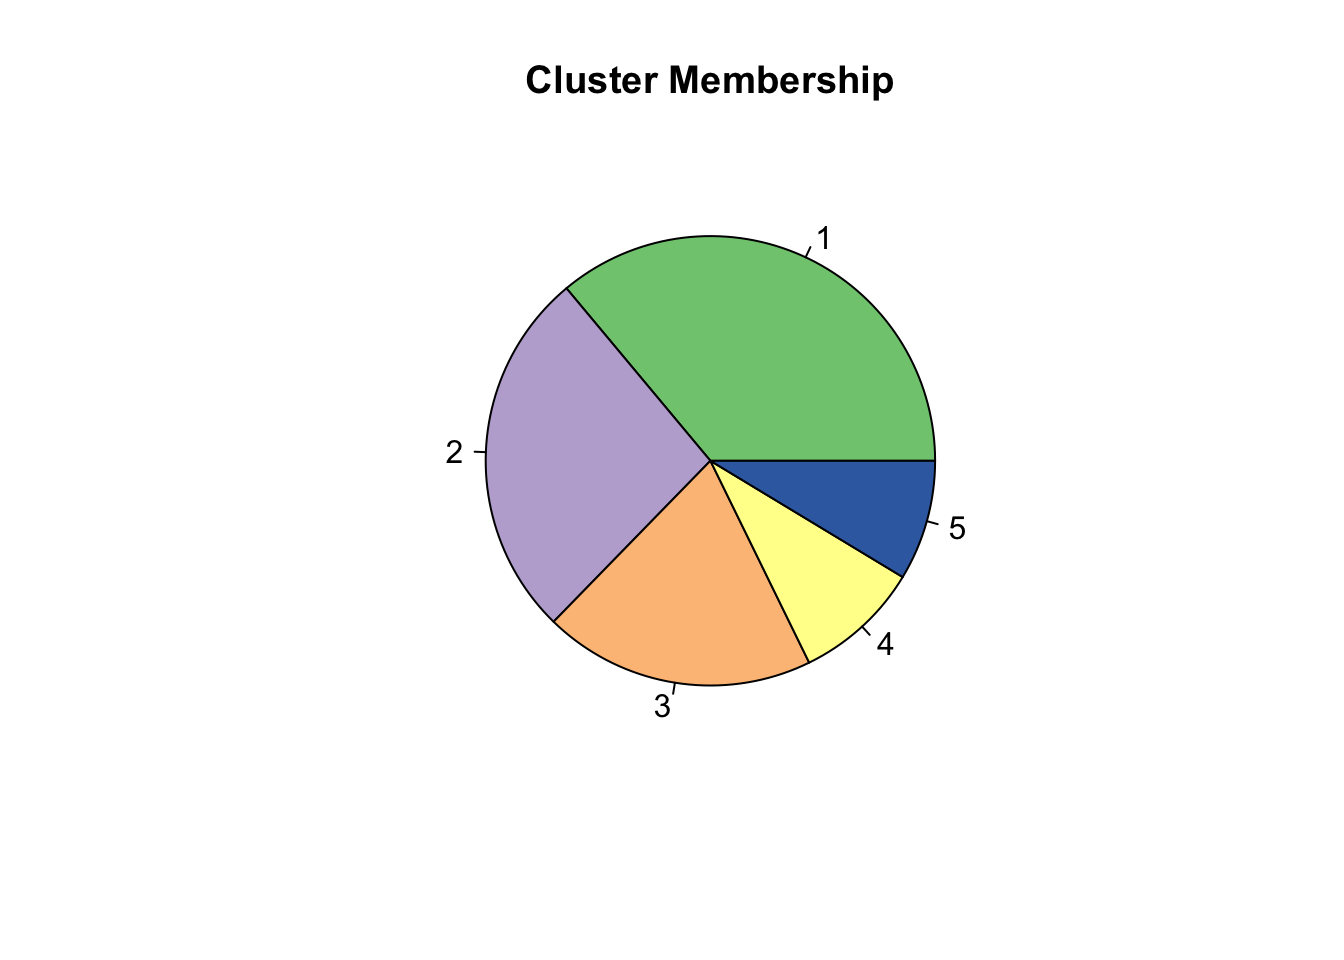
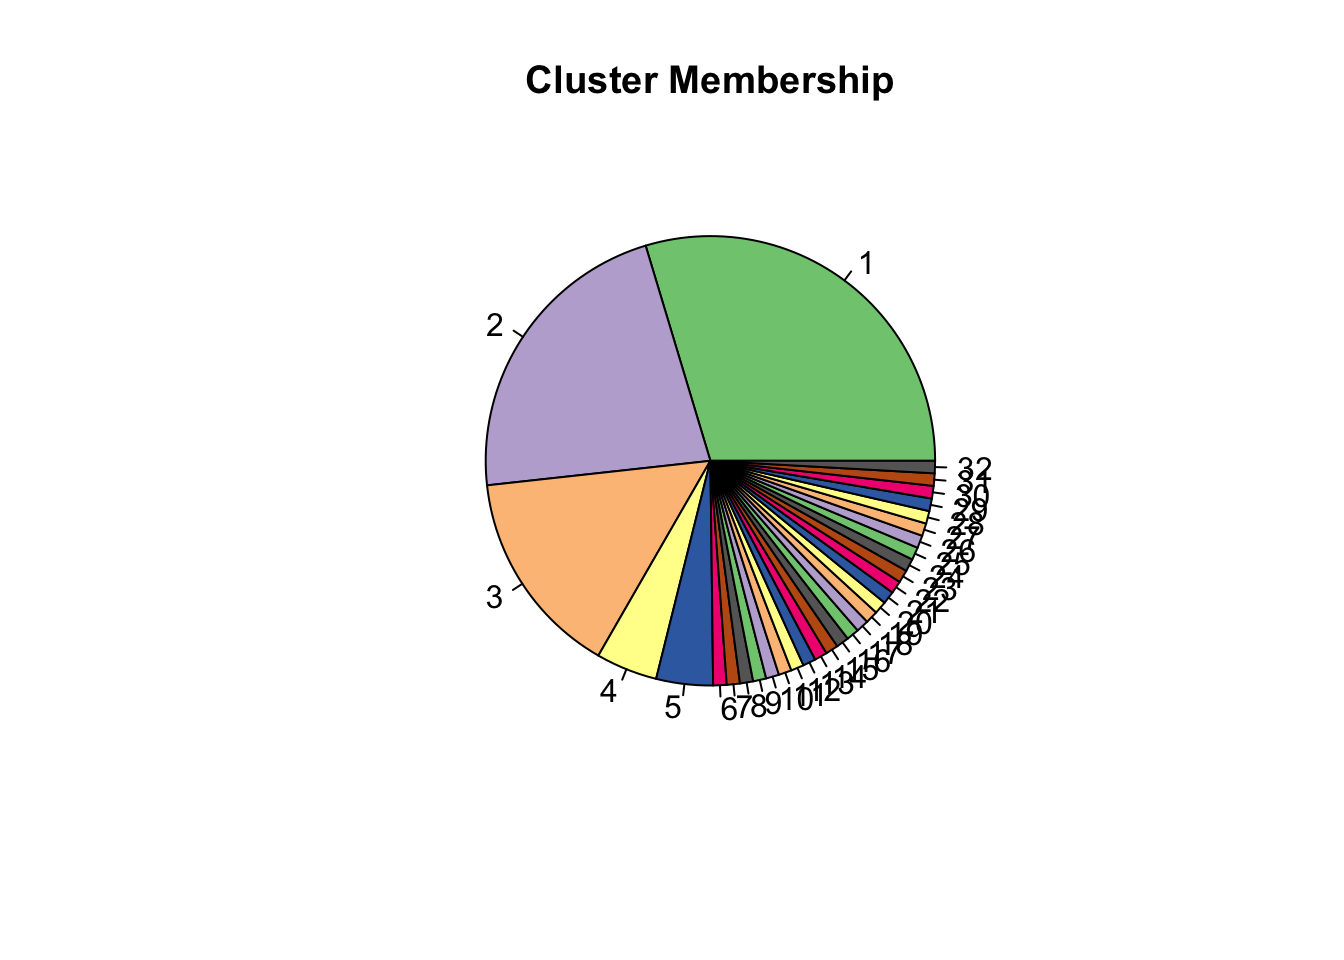
Updated K

Changed region(s): [[0.3438, 0.25, 0.75, 0.75]]

diff --git a/docs/Pearson.html b/docs/Pearson.html
@@ -327,8 +327,7 @@ div.section {
 <strong>workflowr checks:</strong> <small>(Click a bullet for more information)</small>
 <ul>
 <li>
-<p><details> <summary> <strong style="color:blue;">✔</strong> <strong>R Markdown file:</strong> up-to-date </summary></p>
-<p>Great! Since the R Markdown file has been committed to the Git repository, you know the exact version of the code that produced these results.</p>
+<p><details> <summary> <strong style="color:red;">✖</strong> <strong>R Markdown file:</strong> uncommitted changes </summary> The R Markdown file has unstaged changes. To know which version of the R Markdown file created these results, you’ll want to first commit it to the Git repo. If you’re still working on the analysis, you can ignore this warning. When you’re finished, you can run <code>wflow_publish</code> to commit the R Markdown file and build the HTML.</p>
 </details>
 </li>
 <li>
@@ -347,7 +346,7 @@ div.section {
 </details>
 </li>
 <li>
-<p><details> <summary> <strong style="color:blue;">✔</strong> <strong>Repository version:</strong> <a href="https://github.com/surbut/myproject/tree/edc5cd548858a703da33257a7a2745024b04c063" target="_blank">edc5cd5</a> </summary></p>
+<p><details> <summary> <strong style="color:blue;">✔</strong> <strong>Repository version:</strong> <a href="https://github.com/surbut/myproject/tree/fa7cfa80fc0e0a79501a207b947cffdcb310c1e0" target="_blank">fa7cfa8</a> </summary></p>
 Great! You are using Git for version control. Tracking code development and connecting the code version to the results is critical for reproducibility. The version displayed above was the version of the Git repository at the time these results were generated. <br><br> Note that you need to be careful to ensure that all relevant files for the analysis have been committed to Git prior to generating the results (you can use <code>wflow_publish</code> or <code>wflow_git_commit</code>). workflowr only checks the R Markdown file, but you know if there are other scripts or data files that it depends on. Below is the status of the Git repository when the results were generated:
 <pre><code>
 Ignored files:
@@ -357,6 +356,9 @@ Ignored files:
     Ignored:    analysis/.DS_Store
     Ignored:    analysis/.Rhistory
     Ignored:    analysis/Pearson_cache/
+
+Unstaged changes:
+    Modified:   analysis/Pearson.Rmd
 
 </code></pre>
 Note that any generated files, e.g. HTML, png, CSS, etc., are not included in this status report because it is ok for generated content to have uncommitted changes. </details>
@@ -385,6 +387,23 @@ Message
 </tr>
 </thead>
 <tbody>
+<tr>
+<td style="text-align:left;">
+html
+</td>
+<td style="text-align:left;">
+<a href="https://cdn.rawgit.com/surbut/myproject/fa7cfa80fc0e0a79501a207b947cffdcb310c1e0/docs/Pearson.html" target="_blank">fa7cfa8</a>
+</td>
+<td style="text-align:left;">
+surbut
+</td>
+<td style="text-align:left;">
+2018-10-23
+</td>
+<td style="text-align:left;">
+Build site.
+</td>
+</tr>
 <tr>
 <td style="text-align:left;">
 html
@@ -1055,18 +1074,18 @@ bar|19 4445    13     0           0          0       0
 bar|20 4536     1     0           0          0       0</code></pre>
 <p>There are 5 unqiue barcodes. Noww we install some packages necessary for the GOM model according to <strong>CountClust</strong> vignette.</p>
 <pre><code>Loading required package: ggplot2</code></pre>
-<p>To fit for multiple K, we apply the following model and consider how the different clones fall into patterns characterized by tissue-sepcific expression. We cna see that each cluone can have membership in up to 10 clusters, where each cluster is characterized by predilection to a particular tissue or group of tissues. WE can then consider which clusters are most popular, and examine the tissue patterns they demonstrate.</p>
+<p>To fit for multiple K, we apply the following model and consider how the different clones fall into patterns characterized by tissue-sepcific expression. We cna see that each cluone can have membership in up to 32 <span class="math inline">\(\(2^5)\)</span> clusters, where each cluster is characterized by predilection to a particular tissue or group of tissues. WE can then consider which clusters are most popular, and examine the tissue patterns they demonstrate.</p>
 <pre class="r"><code>#fits &lt;- lapply(2:10, function(k) FitGoM(mat,K=k, tol=1))## try over different Ks
-fit=FitGoM(mat,K=5, tol=1)$fit</code></pre>
+fit=FitGoM(mat,K=32, tol=1)$fit</code></pre>
 <pre><code>options not specified: switching to default BIC, other choice is BF for Bayes factor</code></pre>
 <pre><code>Fitting a Grade of Membership model
             (Taddy M., AISTATS 2012, JMLR 22,
             http://proceedings.mlr.press/v22/taddy12/taddy12.pdf)</code></pre>
 <pre><code>
 Estimating on a 23651 document collection.
-Fit and Bayes Factor Estimation for K = 5
+Fit and Bayes Factor Estimation for K = 32
 log posterior increase: done.
-log BF( 5 ) = 259125870.41</code></pre>
+log BF( 32 ) = 258562154.35</code></pre>
 <pre class="r"><code>omega &lt;- fit$omega
 
 
@@ -1084,7 +1103,7 @@ log BF( 5 ) = 259125870.41</code></pre>
 
 StructureGGplot(omega = omega,
                 #annotation = annotation,
-                palette = c(brewer.pal(8, &quot;Accent&quot;)),
+                palette = c(brewer.pal(8, &quot;Accent&quot;),brewer.pal(8,&quot;Dark2&quot;),brewer.pal(8,&quot;Paired&quot;),brewer.pal(8,&quot;Set1&quot;)),
                 yaxis_label = &quot;Clone Number&quot;,
                 order_sample = TRUE,
                 #sample_order_opts=4,
@@ -1149,13 +1168,61 @@ surbut
 <p>We can examine the <code>omega</code> matrix to try and understand the proportional membership of every clone, and overall enrichemnt of each cluster.</p>
 <pre class="r"><code>head(omega[1:10,])</code></pre>
 <pre><code>              topic
-document               1           2           3           4           5
-  bar|1 9115   0.4440247 0.008000000 0.528522179 0.010480072 0.008973015
-  bar|11 16195 0.7333333 0.066666667 0.066666667 0.066666667 0.066666667
-  bar|15 4514  0.8000000 0.050000000 0.050000000 0.050000000 0.050000000
-  bar|17 4877  0.9880867 0.001273885 0.001318551 0.001733266 0.007587599
-  bar|19 4445  0.9428571 0.014285714 0.014285714 0.014285714 0.014285714
-  bar|20 4536  0.6000000 0.100000000 0.100000000 0.100000000 0.100000000</code></pre>
+document                1            2            3            4
+  bar|1 9115   0.02036156 0.0012500000 0.5223246902 0.0013713821
+  bar|11 16195 0.67708333 0.0104166667 0.0104166667 0.0104166667
+  bar|15 4514  0.75781250 0.0078125000 0.0078125000 0.0078125000
+  bar|17 4877  0.13731922 0.0001990446 0.0002065291 0.0002215614
+  bar|19 4445  0.93080357 0.0022321429 0.0022321429 0.0022321429
+  bar|20 4536  0.51562500 0.0156250000 0.0156250000 0.0156250000
+              topic
+document                  5           6           7           8
+  bar|1 9115   0.0014782247 0.019701038 0.019458136 0.014961684
+  bar|11 16195 0.0104166667 0.010416667 0.010416667 0.010416667
+  bar|15 4514  0.0078125000 0.007812500 0.007812500 0.007812500
+  bar|17 4877  0.0001990446 0.066628237 0.044194016 0.110428357
+  bar|19 4445  0.0022321429 0.002232143 0.002232143 0.002232143
+  bar|20 4536  0.0156250000 0.015625000 0.015625000 0.015625000
+              topic
+document                 9          10          11          12          13
+  bar|1 9115   0.019742171 0.017594874 0.015450422 0.018336249 0.017287787
+  bar|11 16195 0.010416667 0.010416667 0.010416667 0.010416667 0.010416667
+  bar|15 4514  0.007812500 0.007812500 0.007812500 0.007812500 0.007812500
+  bar|17 4877  0.107233769 0.017194700 0.009072458 0.023093974 0.207441808
+  bar|19 4445  0.002232143 0.002232143 0.002232143 0.002232143 0.002232143
+  bar|20 4536  0.015625000 0.015625000 0.015625000 0.015625000 0.015625000
+              topic
+document                14          15          16          17          18
+  bar|1 9115   0.017204038 0.017707463 0.017637397 0.017595907 0.016708263
+  bar|11 16195 0.010416667 0.010416667 0.010416667 0.010416667 0.010416667
+  bar|15 4514  0.007812500 0.007812500 0.007812500 0.007812500 0.007812500
+  bar|17 4877  0.014862601 0.017777746 0.017294648 0.017047011 0.012712079
+  bar|19 4445  0.002232143 0.002232143 0.002232143 0.002232143 0.002232143
+  bar|20 4536  0.015625000 0.015625000 0.015625000 0.015625000 0.015625000
+              topic
+document                19          20          21          22          23
+  bar|1 9115   0.017482591 0.017523137 0.017396826 0.017429594 0.017402229
+  bar|11 16195 0.010416667 0.010416667 0.010416667 0.010416667 0.010416667
+  bar|15 4514  0.007812500 0.007812500 0.007812500 0.007812500 0.007812500
+  bar|17 4877  0.016362708 0.016593202 0.015877628 0.016052016 0.015885116
+  bar|19 4445  0.002232143 0.002232143 0.002232143 0.002232143 0.002232143
+  bar|20 4536  0.015625000 0.015625000 0.015625000 0.015625000 0.015625000
+              topic
+document                24          25          26          27          28
+  bar|1 9115   0.017325086 0.016717138 0.016910224 0.014762564 0.016737052
+  bar|11 16195 0.010416667 0.010416667 0.010416667 0.010416667 0.010416667
+  bar|15 4514  0.007812500 0.007812500 0.007812500 0.007812500 0.007812500
+  bar|17 4877  0.015476794 0.012730208 0.013489979 0.007611647 0.012778636
+  bar|19 4445  0.002232143 0.002232143 0.002232143 0.002232143 0.002232143
+  bar|20 4536  0.015625000 0.015625000 0.015625000 0.015625000 0.015625000
+              topic
+document                29          30          31          32
+  bar|1 9115   0.016350501 0.015257529 0.007996214 0.014538036
+  bar|11 16195 0.010416667 0.010416667 0.010416667 0.010416667
+  bar|15 4514  0.007812500 0.007812500 0.007812500 0.007812500
+  bar|17 4877  0.011413249 0.008561400 0.005321607 0.028719003
+  bar|19 4445  0.002232143 0.002232143 0.002232143 0.002232143
+  bar|20 4536  0.015625000 0.015625000 0.015625000 0.015625000</code></pre>
 <p>For example, clone with barcode <code>1_9115</code> has 44% membership in cluster 1, 52.8% membership in cluster 3, and trivial membership in other clusters. To look at overall proportions of membership in each cluster, we can consider the overall proportion of clones (weighted by their cluster memebrship) in eahc cluster. WE see that Cluster 1 is the most popular followed by cluster 2, etc.</p>
 <pre class="r"><code>pie(colSums(omega/nrow(mat)),main=&quot;Cluster Membership&quot;,col=brewer.pal(8, &quot;Accent&quot;))</code></pre>
 <p><img src="figure/Pearson.Rmd/unnamed-chunk-6-1.png" width="672" style="display: block; margin: auto;" /></p>
@@ -1577,6 +1644,7 @@ attached base packages:
 other attached packages:
 [1] lattice_0.20-35    dplyr_0.7.6        gplots_3.0.1      
 [4] RColorBrewer_1.1-2 CountClust_1.8.0   ggplot2_3.0.0     
+[7] workflowr_1.1.1   
 
 loaded via a namespace (and not attached):
  [1] gtools_3.8.1       modeltools_0.2-22  tidyselect_0.2.5  
@@ -1586,21 +1654,21 @@ loaded via a namespace (and not attached):
 [13] R.oo_1.22.0        pillar_1.3.0       glue_1.3.0        
 [16] withr_2.1.2        R.utils_2.7.0      bindrcpp_0.2.2    
 [19] bindr_0.1.1        plyr_1.8.4         stringr_1.3.1     
-[22] munsell_0.5.0      gtable_0.2.0       workflowr_1.1.1   
-[25] R.methodsS3_1.7.1  caTools_1.17.1.1   evaluate_0.12     
-[28] knitr_1.20         permute_0.9-4      flexmix_2.3-14    
-[31] parallel_3.5.1     Rcpp_0.12.19       KernSmooth_2.23-15
-[34] scales_1.0.0       backports_1.1.2    gdata_2.18.0      
-[37] limma_3.36.5       vegan_2.5-2        maptpx_1.9-2      
-[40] picante_1.7        digest_0.6.18      stringi_1.2.4     
-[43] grid_3.5.1         rprojroot_1.3-2    cowplot_0.9.3     
-[46] bitops_1.0-6       tools_3.5.1        magrittr_1.5      
-[49] lazyeval_0.2.1     tibble_1.4.2       cluster_2.0.7-1   
-[52] crayon_1.3.4       ape_5.2            whisker_0.3-2     
-[55] pkgconfig_2.0.2    Matrix_1.2-14      MASS_7.3-50       
-[58] SQUAREM_2017.10-1  assertthat_0.2.0   rmarkdown_1.10    
-[61] R6_2.3.0           nnet_7.3-12        nlme_3.1-137      
-[64] git2r_0.23.0       compiler_3.5.1    </code></pre>
+[22] munsell_0.5.0      gtable_0.2.0       R.methodsS3_1.7.1 
+[25] caTools_1.17.1.1   evaluate_0.12      knitr_1.20        
+[28] permute_0.9-4      flexmix_2.3-14     parallel_3.5.1    
+[31] Rcpp_0.12.19       KernSmooth_2.23-15 scales_1.0.0      
+[34] backports_1.1.2    gdata_2.18.0       limma_3.36.5      
+[37] vegan_2.5-2        maptpx_1.9-2       picante_1.7       
+[40] digest_0.6.18      stringi_1.2.4      grid_3.5.1        
+[43] rprojroot_1.3-2    cowplot_0.9.3      bitops_1.0-6      
+[46] tools_3.5.1        magrittr_1.5       lazyeval_0.2.1    
+[49] tibble_1.4.2       cluster_2.0.7-1    crayon_1.3.4      
+[52] ape_5.2            whisker_0.3-2      pkgconfig_2.0.2   
+[55] Matrix_1.2-14      MASS_7.3-50        SQUAREM_2017.10-1 
+[58] assertthat_0.2.0   rmarkdown_1.10     R6_2.3.0          
+[61] nnet_7.3-12        nlme_3.1-137       git2r_0.23.0      
+[64] compiler_3.5.1    </code></pre>
 </div>
 
 <!-- Adjust MathJax settings so that all math formulae are shown using
